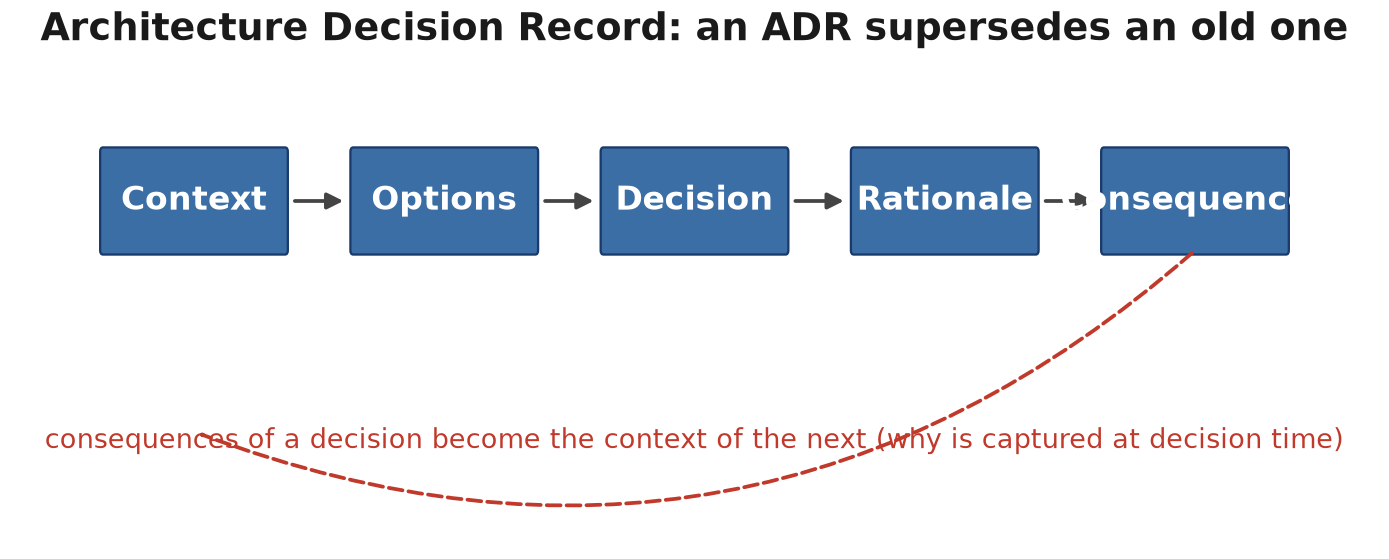
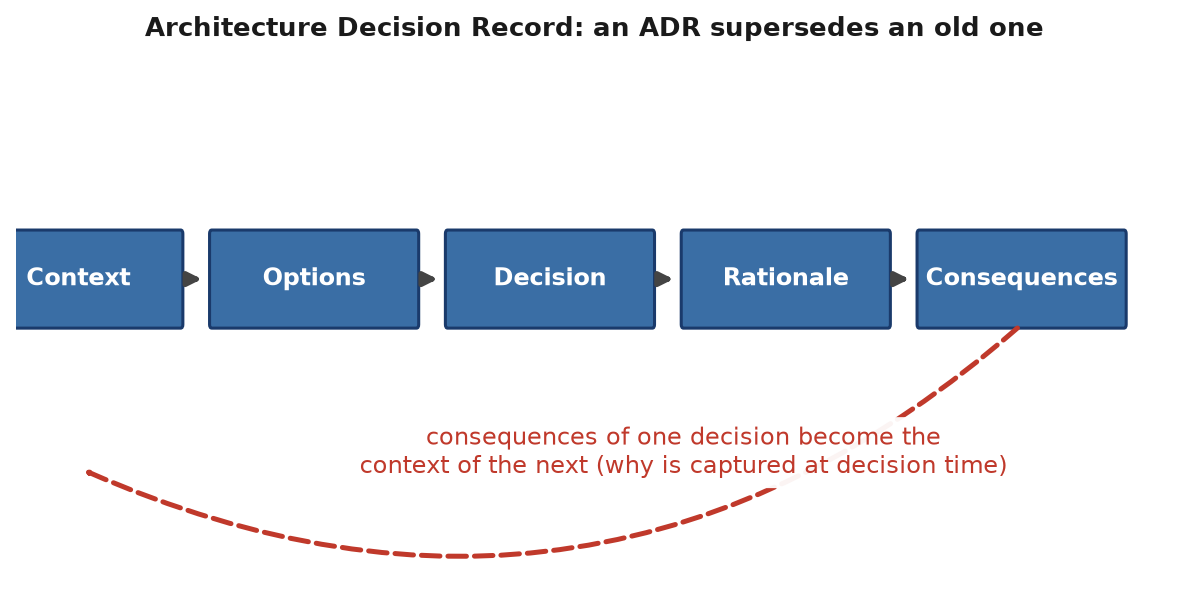
Fix Fig 25.1 ADR: full 'Consequences' label (no clip), clear red loop caption, narrow column-fit

Changed region(s): [[0.0, 0.2433, 0.9655, 0.9123], [0.0311, 0.0, 0.9655, 0.0912]]

diff --git a/render/fig_ch25_adr.py b/render/fig_ch25_adr.py
@@ -4,34 +4,38 @@ import matplotlib.pyplot as plt
 from matplotlib.patches import FancyBboxPatch, FancyArrowPatch
 
 # ---- fig-25-2501: Architecture Decision Record (ADR) supersession chain ----
-# An ADR supersedes an old one: the why is captured at decision time.
-fig, ax = plt.subplots(figsize=(9.4, 3.8))
-ax.set_xlim(0, 24); ax.set_ylim(0, 6); ax.axis('off')
-ax.set_title('Architecture Decision Record: an ADR supersedes an old one', fontsize=11.5,
+# Authored at ~6.1in (print column) so it places 1:1 and nothing clips.  The
+# last box ('Consequences') has generous right margin; the loop annotation is
+# short so it never self-overlaps.
+fig, ax = plt.subplots(figsize=(6.1, 3.2))
+ax.set_xlim(0, 26); ax.set_ylim(0, 7.2); ax.axis('off')
+ax.set_title('Architecture Decision Record: an ADR supersedes an old one', fontsize=9.5,
              fontweight='bold', color='#1a1a1a')
 
 stages = ['Context', 'Options', 'Decision', 'Rationale', 'Consequences']
 n = len(stages)
-w = 3.2; gap = 1.2
+w = 4.6; gap = 0.7
 total = n*w + (n-1)*gap
 x0 = (24 - total)/2.0
 z = 3.6
 for i, name in enumerate(stages):
     x = x0 + i*(w+gap)
     ax.add_patch(FancyBboxPatch((x, z), w, 1.2, boxstyle='round,pad=0.05', fc='#3a6ea5', ec='#1a3a6b', lw=1.1))
-    ax.text(x+w/2, z+0.6, name, ha='center', va='center', fontsize=10, color='white', fontweight='bold')
+    ax.text(x+w/2, z+0.6, name, ha='center', va='center', fontsize=8.5, color='white', fontweight='bold')
     if i < n-1:
         ax.annotate('', xy=(x+w+gap-0.1, z+0.6), xytext=(x+w+0.1, z+0.6),
                     arrowprops=dict(arrowstyle='-|>', lw=1.8, color='#444'))
 
-# feedback: consequences engender the next decision (supersession) -> back to context
-ax.add_patch(FancyArrowPatch((x0+4*(w+gap)+w/2, z), (x0+w/2, z-2.2),
-             connectionstyle='arc3,rad=-0.3', arrowstyle='-|>', lw=1.8, color='#c0392b',
+# feedback: consequences -> context (supersession loop), kept clear of the caption
+ax.add_patch(FancyArrowPatch((x0+4*(w+gap)+w/2, z), (x0+w/2, z-1.9),
+             connectionstyle='arc3,rad=-0.32', arrowstyle='-|>', lw=1.8, color='#c0392b',
              ls='--'))
-ax.text(12.0, 1.2, 'consequences of a decision become the context of the next (why is captured at decision time)',
-        fontsize=8.2, ha='center', color='#c0392b')
+ax.text(15.0, 1.9, 'consequences of one decision become the\ncontext of the next (why is captured at decision time)',
+        fontsize=8.5, ha='center', va='center', color='#c0392b',
+        bbox=dict(boxstyle='round,pad=0.3', fc='white', ec='none', alpha=0.95))
 
 plt.tight_layout()
-plt.savefig('design/manuscript/chapter-25/figures/fig-25-2501.png', dpi=150)
+plt.savefig('design/manuscript/chapter-25/figures/fig-25-2501.png',
+            dpi=200, bbox_inches='tight', pad_inches=0.08)
 plt.close()
-print('wrote fig-25-2501')
+print('wrote fig-25-2501 (narrow)')
